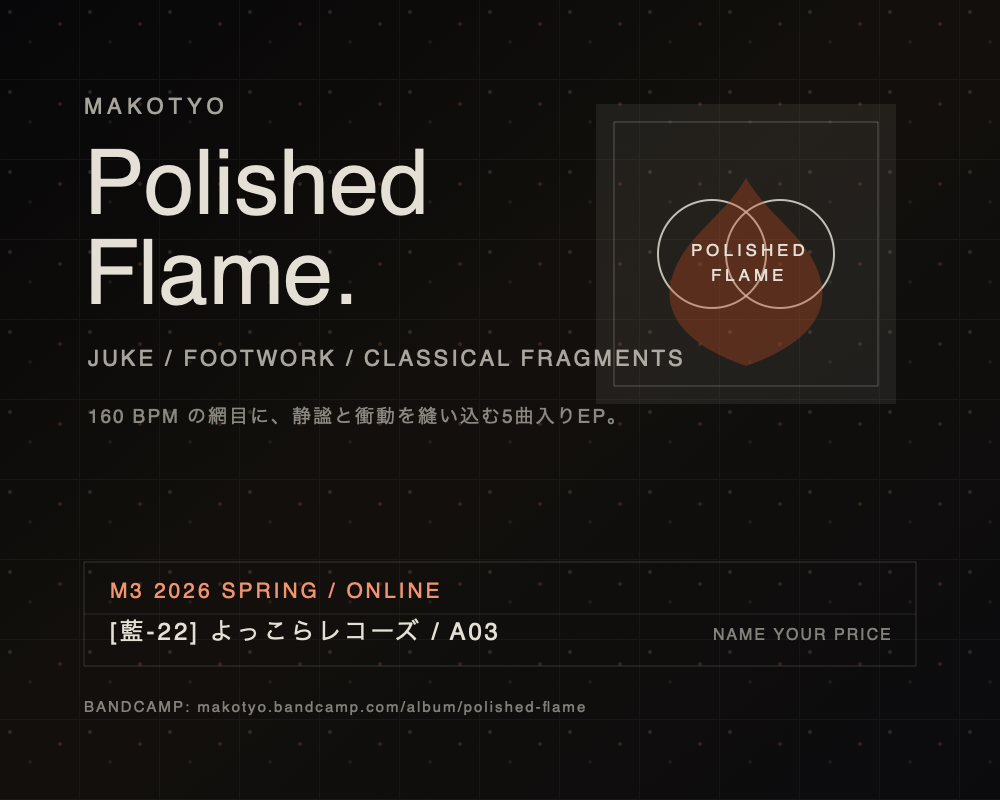
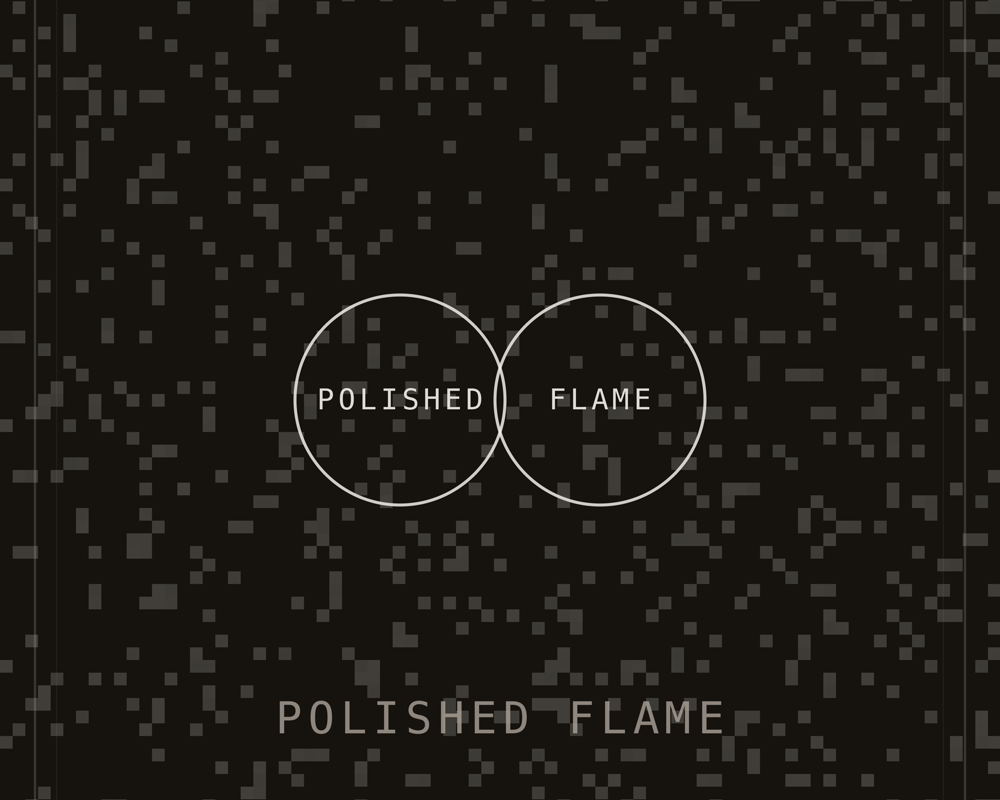
Refine promo assets and Pootwork preview

diff --git a/src/variantC.jsx b/src/variantC.jsx
@@ -423,92 +423,6 @@ function C_Tracks({ onPlaybackStart }) {
   );
 }
 
-function C_Media() {
-  const isTablet = useMediaQuery("(max-width: 980px)");
-  const isMobile = useMediaQuery("(max-width: 720px)");
-  return (
-    <section id="teaser" style={{ padding: isMobile ? "56px 16px" : isTablet ? "72px 24px" : "96px 40px", borderBottom: `1px solid ${C_PAL.line}` }}>
-      <C_Label n="02" title="Teaser" sub="60 sec preview" />
-      <div style={{
-        maxWidth: 1120,
-        display: "grid",
-        gridTemplateColumns: isTablet ? "1fr" : "minmax(0, 1.25fr) 280px",
-        gap: isMobile ? 24 : 36,
-        alignItems: "end",
-      }}>
-        <video
-          controls
-          preload="metadata"
-          poster={encodeURI(`./public/${EP.coverArt}`)}
-          style={{
-            width: "100%",
-            aspectRatio: "16 / 9",
-            display: "block",
-            background: "#050507",
-            border: `1px solid ${C_PAL.line}`,
-          }}
-        >
-          <source src="./public/video/polished-flame-teaser.mp4" type="video/mp4" />
-        </video>
-        <div style={{
-          borderTop: `1px solid ${C_PAL.line}`,
-          borderBottom: `1px solid ${C_PAL.line}`,
-          padding: "18px 0",
-          fontSize: 11,
-          letterSpacing: 1.7,
-          color: C_PAL.dim,
-          lineHeight: 2,
-        }}>
-          <div style={{ color: C_PAL.ink, fontSize: 13, letterSpacing: 2, marginBottom: 10 }}>POLISHED FLAME TEASER</div>
-          <div>60 SEC / 5 TRACKS</div>
-          <div>FOR YOUTUBE PREVIEW</div>
-          <a
-            href={EP.links[0].url}
-            target="_blank"
-            rel="noreferrer noopener"
-            style={{ color: C_PAL.accent, textDecoration: "none", display: "inline-flex", alignItems: "center", gap: 8, marginTop: 12 }}
-          >
-            BANDCAMP <Icon.ext size={10}/>
-          </a>
-        </div>
-      </div>
-    </section>
-  );
-}
-
-function C_Video({ title, sub }) {
-  return (
-    <div>
-      <div style={{
-        width: "100%", aspectRatio: "16/9",
-        background: "#16161a",
-        border: `1px solid ${C_PAL.line}`,
-        position: "relative", overflow: "hidden",
-        display: "flex", alignItems: "center", justifyContent: "center",
-      }}>
-        <div style={{
-          width: 64, height: 64, borderRadius: 64,
-          border: `1px solid ${C_PAL.ink}`,
-          display: "flex", alignItems: "center", justifyContent: "center",
-          color: C_PAL.ink,
-        }}>
-          <Icon.play size={18} />
-        </div>
-        <span style={{ position: "absolute", top: 14, left: 16, fontSize: 10, letterSpacing: 2, color: C_PAL.dim }}>
-          [ VIDEO PLACEHOLDER — embed URL ]
-        </span>
-      </div>
-      <div style={{
-        display: "flex", justifyContent: "space-between",
-        marginTop: 12, fontSize: 11, letterSpacing: 1.5,
-      }}>
-        <span style={{ color: C_PAL.ink }}>{title}</span>
-        <span style={{ color: C_PAL.dim }}>{sub}</span>
-      </div>
-    </div>
-  );
-}
-
 function C_Profile() {
   const isTablet = useMediaQuery("(max-width: 980px)");
   const isMobile = useMediaQuery("(max-width: 720px)");
@@ -584,27 +498,13 @@ function C_Buy() {
 
       <div style={{
         display: "grid",
-        gridTemplateColumns: isMobile ? "1fr" : "1fr auto",
+        gridTemplateColumns: "1fr",
         alignItems: "center",
         gap: isMobile ? 10 : 16,
         paddingTop: 24, borderTop: `1px solid ${C_PAL.line}`,
         fontSize: 10, letterSpacing: 2, color: C_PAL.sub,
       }}>
         <span>© 2026 MAKOTYO — ALL RIGHTS RESERVED</span>
-        <a
-          href={EP.links[0].url}
-          target="_blank"
-          rel="noreferrer noopener"
-          style={{
-            color: C_PAL.ink,
-            textDecoration: "none",
-            display: "inline-flex",
-            alignItems: "center",
-            gap: 8,
-          }}
-        >
-          NAME YOUR PRICE ON BANDCAMP <Icon.ext size={10}/>
-        </a>
       </div>
     </section>
   );
@@ -622,7 +522,6 @@ function VariantC() {
       <C_TopBar syncKey={clockSyncKey} />
       <C_Hero />
       <C_Tracks onPlaybackStart={() => setClockSyncKey((prev) => prev + 1)} />
-      <C_Media />
       <C_Profile />
       <C_Buy />
     </div>